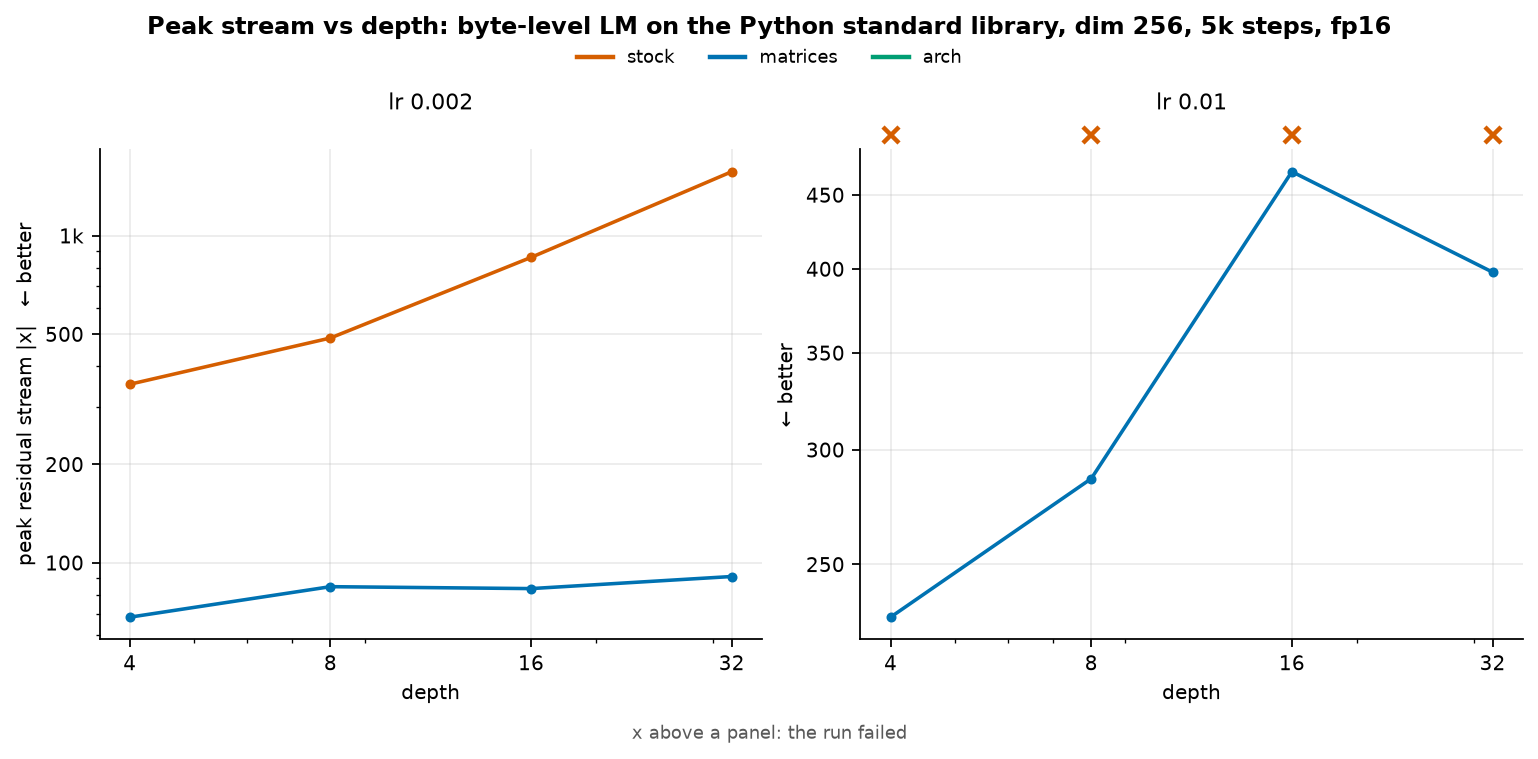
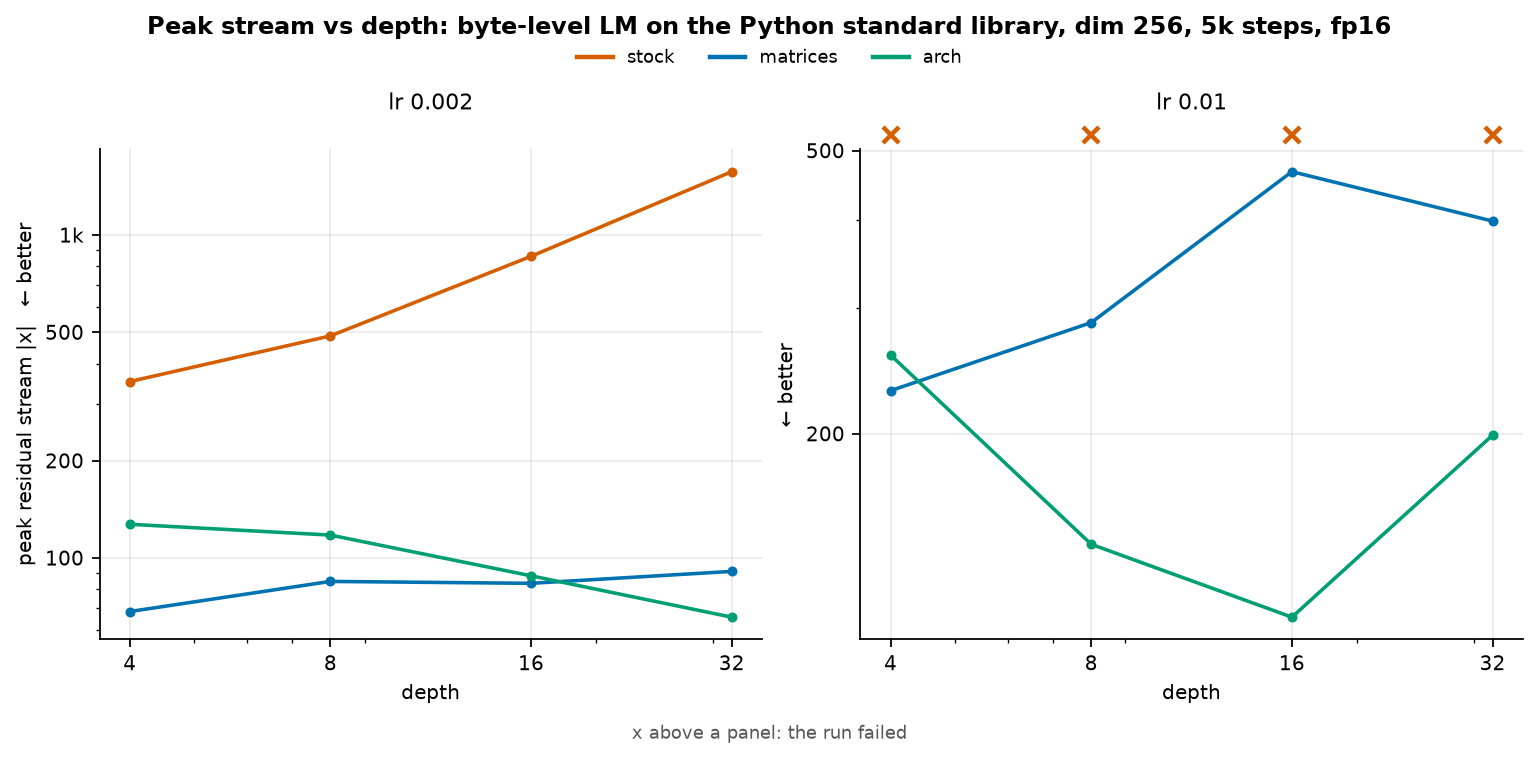
README: arch results for depth, width and JiT
arch trains at every depth (4-32) and width (128-1024) at all three
learning rates, best loss 0.925-0.970; JiT-B/16 over 10k steps peaks
at 28-86 against stock's 779-23,804, at the lowest held-out loss at
every learning rate. Figures redrawn from the finished runs.

diff --git a/README.md b/README.md
@@ -279,7 +279,7 @@ config file.
 | `matrices` | `suggest(level="matrices")` on the stock model |
 | `arch` | `suggest(level="absorb")` plus the architecture notes done in the model code (see [How it works](#how-it-works)) |
 
-A run **failed** when it diverged or its best held-out loss stayed above 2.0. `…`: still running.
+A run **failed** when it diverged or its best held-out loss stayed above 2.0.
 
 ### Byte-level LM
 
@@ -333,9 +333,9 @@ C, depth (best held-out loss):
 | matrices | 2e-3 | 0.994 | 0.954 | 0.939 | 0.935 |
 | matrices | 1e-2 | 1.006 | 0.960 | 0.939 | 0.932 |
 | matrices | 5e-2 | 1.110 | 1.147 | 0.991 | failed |
-| arch | 2e-3 | … | … | … | … |
-| arch | 1e-2 | … | … | … | … |
-| arch | 5e-2 | … | … | … | … |
+| arch | 2e-3 | 0.946 | 0.936 | 0.932 | 0.927 |
+| arch | 1e-2 | 0.938 | 0.937 | 0.925 | 0.925 |
+| arch | 5e-2 | 0.943 | 0.953 | 0.938 | 0.925 |
 
 **D: weight decay on stock** (best held-out loss, peak stream).
 
@@ -357,11 +357,11 @@ E, width (best held-out loss):
 | matrices | 1e-2 | 0.977 | 0.967 | 1.121 | 1.187 |
 | matrices | 5e-2 | 0.970 | 1.047 | failed | failed |
 | arch | 2e-3 | 0.970 | 0.938 | 0.932 | 0.953 |
-| arch | 1e-2 | 0.951 | 0.942 | 0.940 | … |
-| arch | 5e-2 | 0.952 | 0.942 | 0.935 | … |
+| arch | 1e-2 | 0.951 | 0.942 | 0.940 | 0.944 |
+| arch | 5e-2 | 0.952 | 0.942 | 0.935 | 0.946 |
 
 Stock's stream grows with width (207, 516, 1,812 at lr 2e-3) and width 1024 diverges at the
-smallest learning rate.
+smallest learning rate. `arch` trains at every depth and width at all three learning rates.
 
 **Loss against stream size**, every run of A–E: the frontier per preset (left) and each setup's
 learning-rate sweep as one line (right).
@@ -397,7 +397,12 @@ model as in stock. Without it, and with the context tokens read-only, the stream
 | matrices | 2e-4 | 0.260 | 710 |
 | matrices | 1e-3 | 0.216 | 1,294 |
 | matrices | 3e-3 | 0.217 | 2,055 |
-| arch | 2e-4 / 1e-3 / 3e-3 | … | … |
+| arch | 2e-4 | 0.234 | 29 |
+| arch | 1e-3 | 0.175 | 28 |
+| arch | 3e-3 | 0.183 | 86 |
+
+Over 10k steps stock's stream peaks at 779 to 23,804, rising with the learning rate; `arch` stays
+at 28 to 86, and its held-out loss is the lowest at every learning rate.
 
 Reproduce, for example:
 
